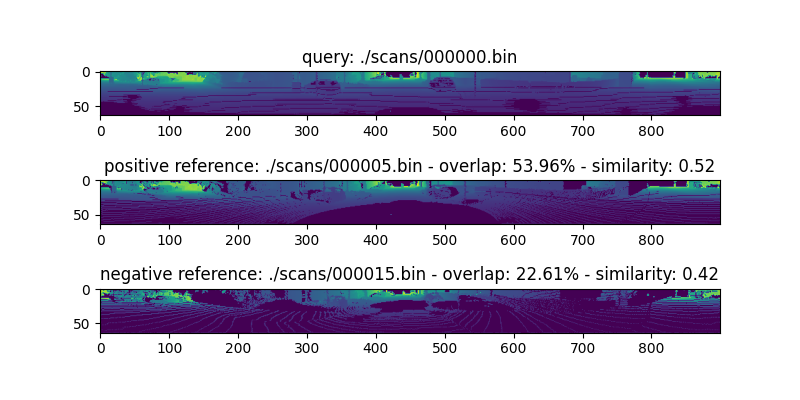
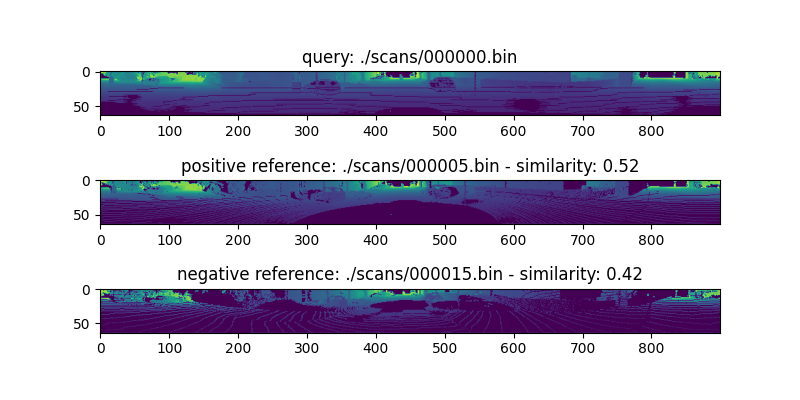
refine demo

Changed region(s): [[0.125, 0.66, 0.9062, 0.72], [0.125, 0.39, 0.9062, 0.45]]

diff --git a/demo/demo_compute_overlap_sim.py b/demo/demo_compute_overlap_sim.py
@@ -79,9 +79,9 @@ plt.subplot(311)
 plt.title("query: " + scan_paths[0])
 plt.imshow(current_range)
 plt.subplot(312)
-plt.title("positive reference: " + scan_paths[1] + " - overlap: " + str(overlap_pos) + "% - similarity: " + str(sim_pos))
+plt.title("positive reference: " + scan_paths[1] +  " - similarity: " + str(sim_pos))
 plt.imshow(reference_range_list[1])
 plt.subplot(313)
-plt.title("negative reference: " + scan_paths[2] + " - overlap: " + str(overlap_neg) + "% - similarity: " + str(sim_neg))
+plt.title("negative reference: " + scan_paths[2] +  " - similarity: " + str(sim_neg))
 plt.imshow(reference_range_list[2])
 plt.show()
